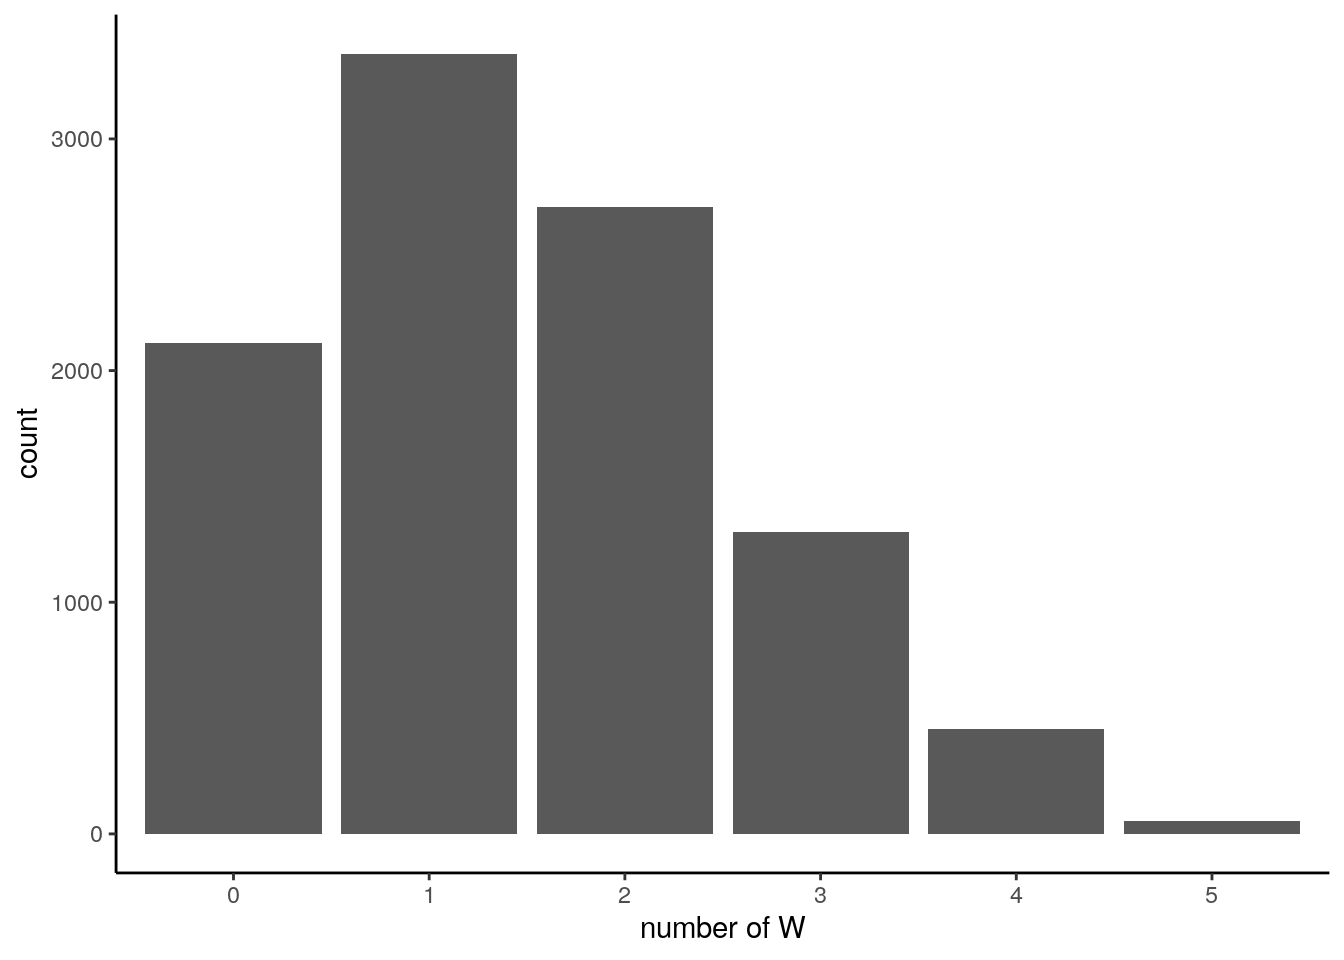
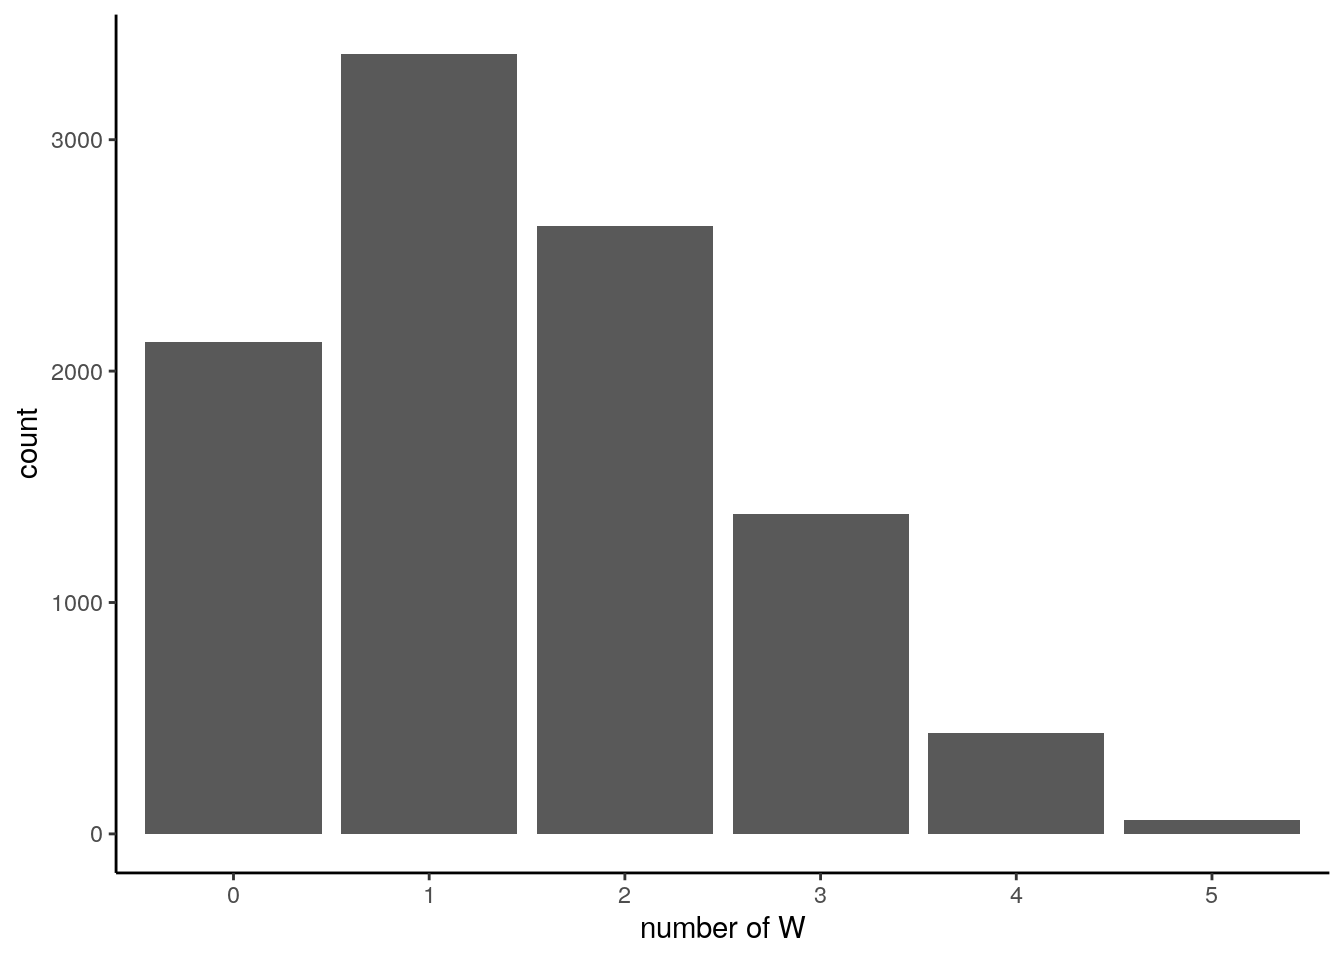
q3

diff --git a/homework/homework-01.html b/homework/homework-01.html
@@ -98,6 +98,7 @@ code span.wa { color: #60a0b0; font-weight: bold; font-style: italic; } /* Warni
 <link href="homework-01_files/libs/bootstrap/bootstrap-icons.css" rel="stylesheet">
 <link href="homework-01_files/libs/bootstrap/bootstrap.min.css" rel="stylesheet" id="quarto-bootstrap" data-mode="light">
 
+  <script src="https://cdn.jsdelivr.net/npm/mathjax@3/es5/tex-chtml-full.js" type="text/javascript"></script>
 
 </head>
 
@@ -179,28 +180,29 @@ code span.wa { color: #60a0b0; font-weight: bold; font-style: italic; } /* Warni
 <h4 class="anchored" data-anchor-id="question-2-using-the-posterior-distribution-from-1-compute-the-posterior-predictive-distribution-for-the-next-5-tosses-of-the-same-globe.-i-recommend-you-use-the-sampling-method.">Question 2: Using the posterior distribution from 1, compute the posterior predictive distribution for the next 5 tosses of the same globe. I recommend you use the sampling method.</h4>
 <div class="cell">
 <div class="sourceCode cell-code" id="cb3"><pre class="sourceCode r code-with-copy"><code class="sourceCode r"><span id="cb3-1"><a href="#cb3-1" aria-hidden="true" tabindex="-1"></a><span class="co"># sample our posterior (beta distribution with 4 W, 11 L)</span></span>
-<span id="cb3-2"><a href="#cb3-2" aria-hidden="true" tabindex="-1"></a>post_samples <span class="ot">&lt;-</span> <span class="fu">rbeta</span>(<span class="fl">1e4</span>, <span class="dv">4</span><span class="sc">+</span><span class="dv">1</span>, <span class="dv">11</span><span class="sc">+</span><span class="dv">1</span>)</span>
-<span id="cb3-3"><a href="#cb3-3" aria-hidden="true" tabindex="-1"></a></span>
-<span id="cb3-4"><a href="#cb3-4" aria-hidden="true" tabindex="-1"></a><span class="co"># sim globe function</span></span>
-<span id="cb3-5"><a href="#cb3-5" aria-hidden="true" tabindex="-1"></a>sim_globe <span class="ot">&lt;-</span> <span class="cf">function</span>(p, N){</span>
-<span id="cb3-6"><a href="#cb3-6" aria-hidden="true" tabindex="-1"></a>  </span>
-<span id="cb3-7"><a href="#cb3-7" aria-hidden="true" tabindex="-1"></a>  <span class="fu">sample</span>(<span class="fu">c</span>(<span class="st">"W"</span>, <span class="st">"L"</span>), <span class="at">size =</span> N, <span class="at">prob=</span><span class="fu">c</span>(p, <span class="dv">1</span><span class="sc">-</span>p), <span class="at">replace =</span> T)</span>
-<span id="cb3-8"><a href="#cb3-8" aria-hidden="true" tabindex="-1"></a></span>
-<span id="cb3-9"><a href="#cb3-9" aria-hidden="true" tabindex="-1"></a>}</span>
-<span id="cb3-10"><a href="#cb3-10" aria-hidden="true" tabindex="-1"></a></span>
-<span id="cb3-11"><a href="#cb3-11" aria-hidden="true" tabindex="-1"></a><span class="co"># simulate posterior predictive distribution for next 5 tosses of the globe</span></span>
-<span id="cb3-12"><a href="#cb3-12" aria-hidden="true" tabindex="-1"></a><span class="co"># how many of the 5 tosses will = W? Tested 1e4 times</span></span>
-<span id="cb3-13"><a href="#cb3-13" aria-hidden="true" tabindex="-1"></a>pred_post <span class="ot">&lt;-</span> <span class="fu">sapply</span>(post_samples, <span class="cf">function</span>(p) <span class="fu">sum</span>(<span class="fu">sim_globe</span>(p, <span class="dv">5</span>)<span class="sc">==</span><span class="st">"W"</span>))</span>
-<span id="cb3-14"><a href="#cb3-14" aria-hidden="true" tabindex="-1"></a></span>
-<span id="cb3-15"><a href="#cb3-15" aria-hidden="true" tabindex="-1"></a><span class="co"># create table that counts number of incidences of each option (i.e., how many times will 0 W appear, 1 W, 2 W, 3 W, 4 W, 5 W?)</span></span>
-<span id="cb3-16"><a href="#cb3-16" aria-hidden="true" tabindex="-1"></a>tab_post <span class="ot">&lt;-</span> <span class="fu">table</span>(pred_post)</span>
-<span id="cb3-17"><a href="#cb3-17" aria-hidden="true" tabindex="-1"></a>pred_post_df <span class="ot">&lt;-</span> <span class="fu">as.data.frame</span>(tab_post)</span>
-<span id="cb3-18"><a href="#cb3-18" aria-hidden="true" tabindex="-1"></a></span>
-<span id="cb3-19"><a href="#cb3-19" aria-hidden="true" tabindex="-1"></a><span class="fu">ggplot</span>(pred_post_df, <span class="fu">aes</span>(<span class="fu">as.factor</span>(pred_post), Freq)) <span class="sc">+</span> </span>
-<span id="cb3-20"><a href="#cb3-20" aria-hidden="true" tabindex="-1"></a>  <span class="fu">geom_col</span>() <span class="sc">+</span> </span>
-<span id="cb3-21"><a href="#cb3-21" aria-hidden="true" tabindex="-1"></a>  <span class="fu">theme_classic</span>() <span class="sc">+</span> </span>
-<span id="cb3-22"><a href="#cb3-22" aria-hidden="true" tabindex="-1"></a>  <span class="fu">xlab</span>(<span class="st">"number of W"</span>) <span class="sc">+</span> </span>
-<span id="cb3-23"><a href="#cb3-23" aria-hidden="true" tabindex="-1"></a>  <span class="fu">ylab</span>(<span class="st">"count"</span>)</span></code><button title="Copy to Clipboard" class="code-copy-button"><i class="bi"></i></button></pre></div>
+<span id="cb3-2"><a href="#cb3-2" aria-hidden="true" tabindex="-1"></a>n <span class="ot">&lt;-</span> <span class="fl">1e4</span></span>
+<span id="cb3-3"><a href="#cb3-3" aria-hidden="true" tabindex="-1"></a>post_samples <span class="ot">&lt;-</span> <span class="fu">rbeta</span>(n, <span class="dv">4</span><span class="sc">+</span><span class="dv">1</span>, <span class="dv">11</span><span class="sc">+</span><span class="dv">1</span>)</span>
+<span id="cb3-4"><a href="#cb3-4" aria-hidden="true" tabindex="-1"></a></span>
+<span id="cb3-5"><a href="#cb3-5" aria-hidden="true" tabindex="-1"></a><span class="co"># sim globe function</span></span>
+<span id="cb3-6"><a href="#cb3-6" aria-hidden="true" tabindex="-1"></a>sim_globe <span class="ot">&lt;-</span> <span class="cf">function</span>(p, N){</span>
+<span id="cb3-7"><a href="#cb3-7" aria-hidden="true" tabindex="-1"></a>  </span>
+<span id="cb3-8"><a href="#cb3-8" aria-hidden="true" tabindex="-1"></a>  <span class="fu">sample</span>(<span class="fu">c</span>(<span class="st">"W"</span>, <span class="st">"L"</span>), <span class="at">size =</span> N, <span class="at">prob=</span><span class="fu">c</span>(p, <span class="dv">1</span><span class="sc">-</span>p), <span class="at">replace =</span> T)</span>
+<span id="cb3-9"><a href="#cb3-9" aria-hidden="true" tabindex="-1"></a></span>
+<span id="cb3-10"><a href="#cb3-10" aria-hidden="true" tabindex="-1"></a>}</span>
+<span id="cb3-11"><a href="#cb3-11" aria-hidden="true" tabindex="-1"></a></span>
+<span id="cb3-12"><a href="#cb3-12" aria-hidden="true" tabindex="-1"></a><span class="co"># simulate posterior predictive distribution for next 5 tosses of the globe</span></span>
+<span id="cb3-13"><a href="#cb3-13" aria-hidden="true" tabindex="-1"></a><span class="co"># how many of the 5 tosses will = W? Tested 1e4 times</span></span>
+<span id="cb3-14"><a href="#cb3-14" aria-hidden="true" tabindex="-1"></a>pred_post <span class="ot">&lt;-</span> <span class="fu">sapply</span>(post_samples, <span class="cf">function</span>(p) <span class="fu">sum</span>(<span class="fu">sim_globe</span>(p, <span class="dv">5</span>)<span class="sc">==</span><span class="st">"W"</span>))</span>
+<span id="cb3-15"><a href="#cb3-15" aria-hidden="true" tabindex="-1"></a></span>
+<span id="cb3-16"><a href="#cb3-16" aria-hidden="true" tabindex="-1"></a><span class="co"># create table that counts number of incidences of each option (i.e., how many times will 0 W appear, 1 W, 2 W, 3 W, 4 W, 5 W?)</span></span>
+<span id="cb3-17"><a href="#cb3-17" aria-hidden="true" tabindex="-1"></a>tab_post <span class="ot">&lt;-</span> <span class="fu">table</span>(pred_post)</span>
+<span id="cb3-18"><a href="#cb3-18" aria-hidden="true" tabindex="-1"></a>pred_post_df <span class="ot">&lt;-</span> <span class="fu">as.data.frame</span>(tab_post)</span>
+<span id="cb3-19"><a href="#cb3-19" aria-hidden="true" tabindex="-1"></a></span>
+<span id="cb3-20"><a href="#cb3-20" aria-hidden="true" tabindex="-1"></a><span class="fu">ggplot</span>(pred_post_df, <span class="fu">aes</span>(<span class="fu">as.factor</span>(pred_post), Freq)) <span class="sc">+</span> </span>
+<span id="cb3-21"><a href="#cb3-21" aria-hidden="true" tabindex="-1"></a>  <span class="fu">geom_col</span>() <span class="sc">+</span> </span>
+<span id="cb3-22"><a href="#cb3-22" aria-hidden="true" tabindex="-1"></a>  <span class="fu">theme_classic</span>() <span class="sc">+</span> </span>
+<span id="cb3-23"><a href="#cb3-23" aria-hidden="true" tabindex="-1"></a>  <span class="fu">xlab</span>(<span class="st">"number of W"</span>) <span class="sc">+</span> </span>
+<span id="cb3-24"><a href="#cb3-24" aria-hidden="true" tabindex="-1"></a>  <span class="fu">ylab</span>(<span class="st">"count"</span>)</span></code><button title="Copy to Clipboard" class="code-copy-button"><i class="bi"></i></button></pre></div>
 <div class="cell-output-display">
 <p><img src="homework-01_files/figure-html/q2-1.png" class="img-fluid" width="672"></p>
 </div>
@@ -208,6 +210,16 @@ code span.wa { color: #60a0b0; font-weight: bold; font-style: italic; } /* Warni
 </section>
 <section id="question-3-use-the-posterior-predictive-distribution-from-2-to-calculate-the-probability-of-3-or-more-water-samples-in-the-next-5-tosses." class="level4">
 <h4 class="anchored" data-anchor-id="question-3-use-the-posterior-predictive-distribution-from-2-to-calculate-the-probability-of-3-or-more-water-samples-in-the-next-5-tosses.">Question 3: Use the posterior predictive distribution from 2 to calculate the probability of 3 or more water samples in the next 5 tosses.</h4>
+<p>We know that <span class="math display">\[ p = \frac{ways}{sum(ways)} \]</span> Therefore, count the incidences of 3, 4, 5 in posterior predictive distribution from 2 and divide by total number of ways (1e4)</p>
+<div class="cell">
+<div class="sourceCode cell-code" id="cb4"><pre class="sourceCode r code-with-copy"><code class="sourceCode r"><span id="cb4-1"><a href="#cb4-1" aria-hidden="true" tabindex="-1"></a>p_threeplus <span class="ot">&lt;-</span> (<span class="fu">sum</span>(pred_post_df[<span class="fu">which</span>(pred_post_df[,<span class="dv">1</span>]<span class="sc">==</span><span class="dv">3</span> <span class="sc">|</span> pred_post_df[,<span class="dv">1</span>]<span class="sc">==</span><span class="dv">4</span> <span class="sc">|</span> </span>
+<span id="cb4-2"><a href="#cb4-2" aria-hidden="true" tabindex="-1"></a>                                         pred_post_df[,<span class="dv">1</span>]<span class="sc">==</span><span class="dv">5</span>),<span class="dv">2</span>]))<span class="sc">/</span>n</span>
+<span id="cb4-3"><a href="#cb4-3" aria-hidden="true" tabindex="-1"></a></span>
+<span id="cb4-4"><a href="#cb4-4" aria-hidden="true" tabindex="-1"></a><span class="fu">print</span>(<span class="fu">paste0</span>(<span class="st">"p = "</span>, p_threeplus))</span></code><button title="Copy to Clipboard" class="code-copy-button"><i class="bi"></i></button></pre></div>
+<div class="cell-output cell-output-stdout">
+<pre><code>[1] "p = 0.1875"</code></pre>
+</div>
+</div>
 </section>
 <section id="question-4-suppose-you-observe-w-5-water-points-but-you-forgot-to-write-down-how-many-times-the-globe-was-tossed-so-you-dont-know-the-number-of-land-pints-l.-assume-that-p-0.7-and-compute-the-posterior-distribution-of-the-number-of-tosses-n.-hint-use-the-binomial-distribution." class="level4">
 <h4 class="anchored" data-anchor-id="question-4-suppose-you-observe-w-5-water-points-but-you-forgot-to-write-down-how-many-times-the-globe-was-tossed-so-you-dont-know-the-number-of-land-pints-l.-assume-that-p-0.7-and-compute-the-posterior-distribution-of-the-number-of-tosses-n.-hint-use-the-binomial-distribution.">Question 4: Suppose you observe W = 5 water points, but you forgot to write down how many times the globe was tossed, so you don’t know the number of land pints L. Assume that <em>p</em> = 0.7 and compute the posterior distribution of the number of tosses <em>N</em>. Hint: Use the binomial distribution.</h4>
